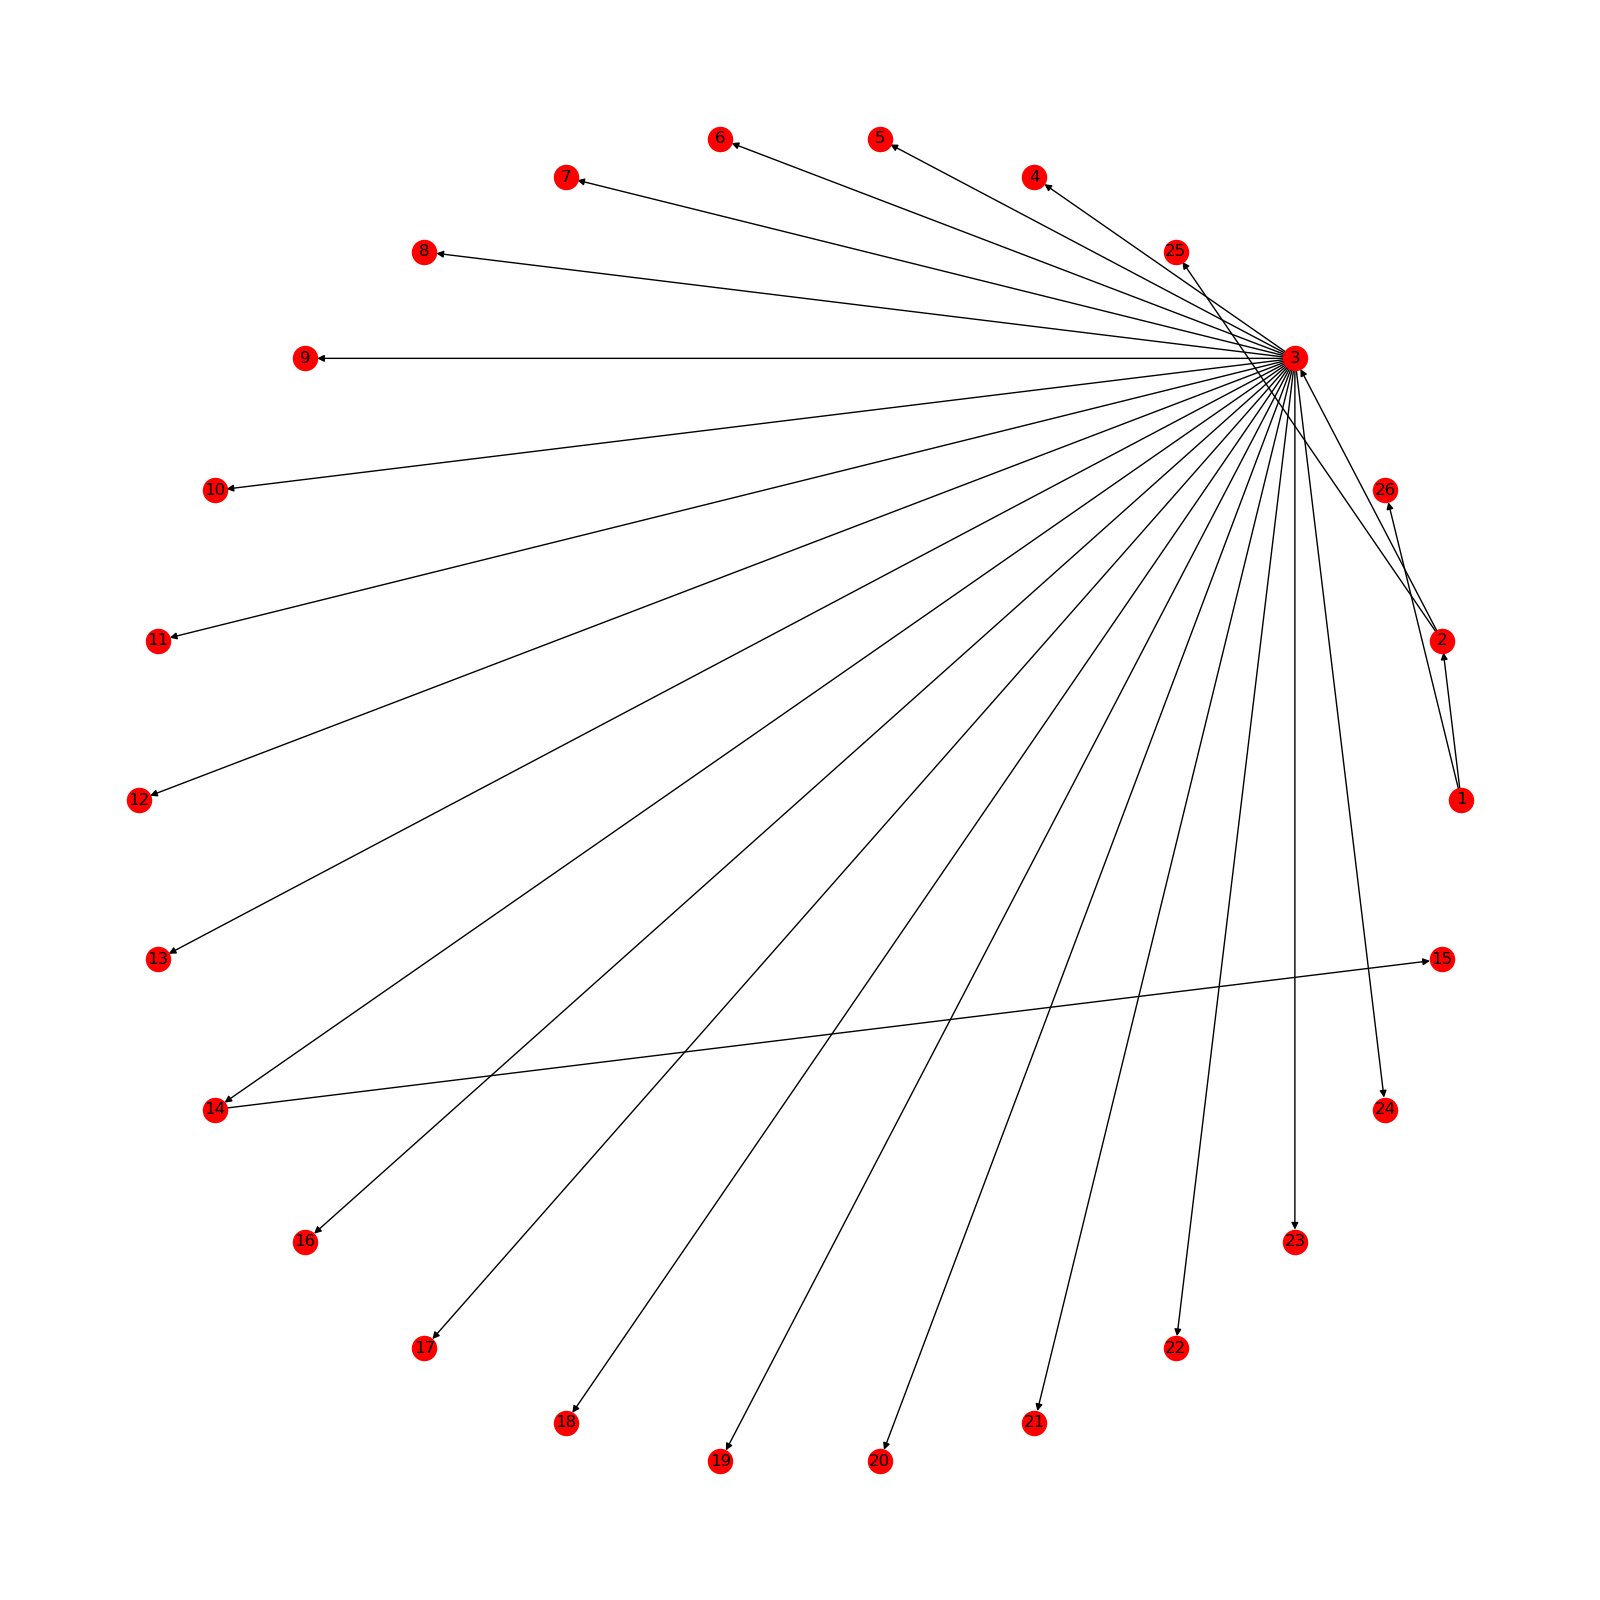
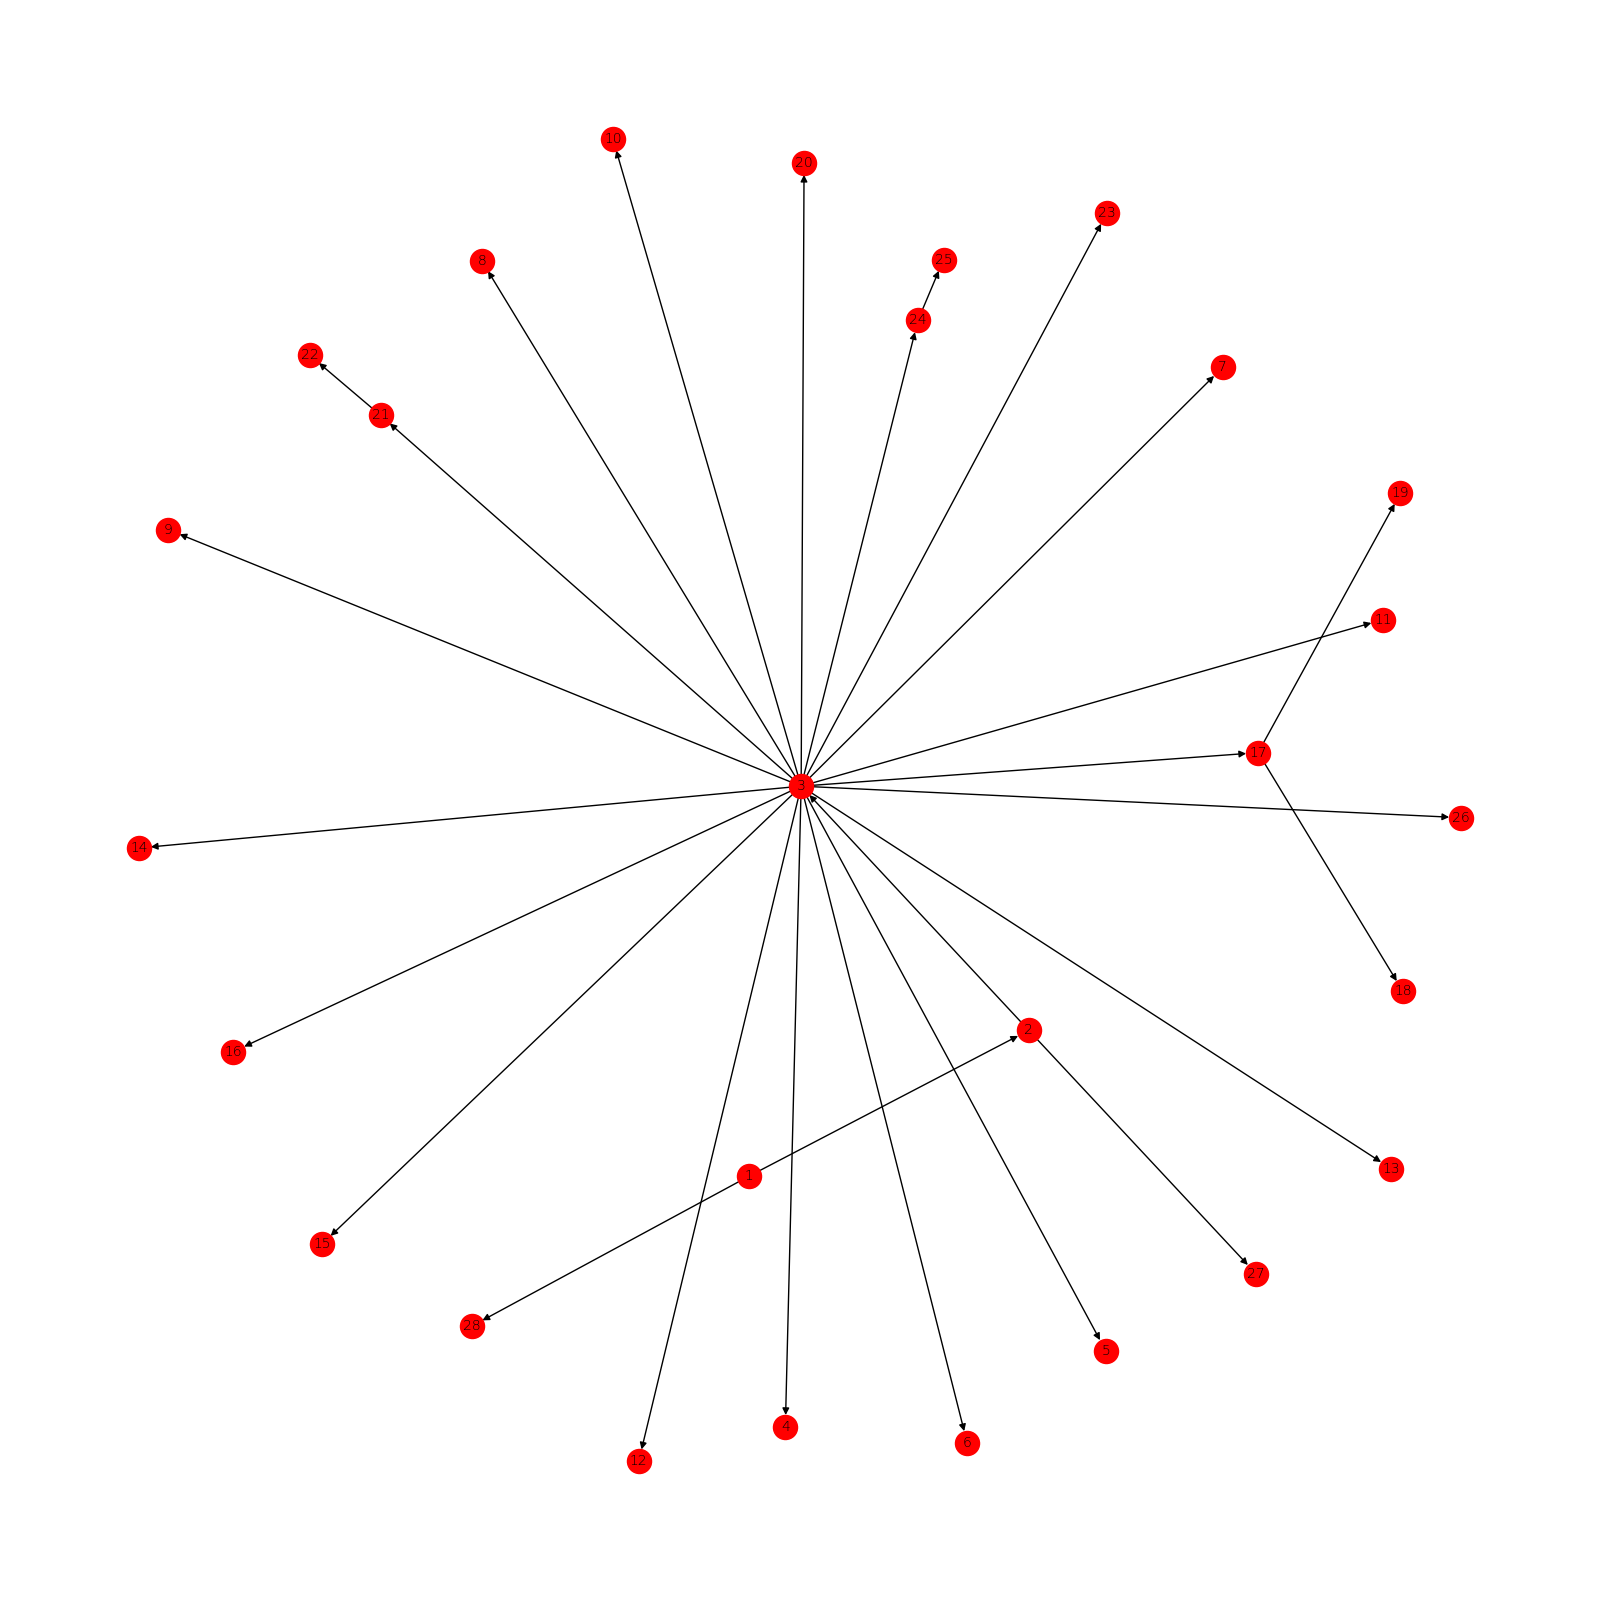
Changes to be committed: 	modified:   lib/graph.py 	modified:   lib/html.py 	modified:   main.py 	modified:   server.py 	modified:   static/Plot1.png 	modified:   templates/template.html

diff --git a/templates/template.html b/templates/template.html
@@ -2,7 +2,7 @@
 <html lang="en">
 <head>
     <meta charset="UTF-8">
-    <title>HTML</title>
+    <title>WebScraping - ResultView</title>
     <style>
         {{ html.css }}
     </style>
@@ -30,6 +30,9 @@
             xhttp.onreadystatechange = function() {
                 if (this.readyState == 4 && this.status == 200) {
                     document.getElementById("result").innerHTML = xhttp.responseText;
+                }
+                if (this.getResponseHeader('R-Processing') != 'Completed') {
+                   setTimeout(print_res(), 3000);
                 }
             };
             xhttp.open("GET", "/result", true);

diff --git a/lib/html.py b/lib/html.py
@@ -1,4 +1,18 @@
 css = '''
+        ol {
+            overflow:hidden;
+            overflow-y:scroll;
+            overflow-x:scroll;
+            max-width: 35%;
+            height: 700px;
+            float:right;
+            color: #FFFFFF;
+            font-weight: light;
+            background-color: #0000AA;
+            margin: 1px;
+            padding-top: 15px;
+        }
+
         .pyRes {
             color: #FFFFFF;
             font-weight: bold;
@@ -12,7 +26,10 @@ css = '''
             margin: auto;
         }
         .imgdiv {
-            text-align: center;
+            float:left
+        }
+        .imgdiv img {
+            width: 765px;
         }
 '''
 
@@ -24,6 +41,14 @@ def parse_string(string):
 def img_tag(img_name, img_path):
     tag = '<img src="' + img_path + '" alt="' + img_name + '" />'
     return tag
+
+def ordered_list(o_list):
+    list_tag = '<ol>\n'
+    for elm in o_list:
+        list_tag += '\t<li>' + elm + '</li>\n'
+
+    list_tag += '</ol>'
+    return list_tag
 
 
 class Plot_Handler:

diff --git a/main.py b/main.py
@@ -30,7 +30,7 @@ if __name__ == '__main__':
     if not args.serve:
         progression.monitor(crawler, crawler.crawl, 'pretty')
         crawler.graph(figuresize).show()
-        pprint(crawler.spun)
+        pprint(crawler.url_list)
 
     else:
 
@@ -44,6 +44,9 @@ if __name__ == '__main__':
                 progression.monitor(crawler, crawler.crawl, 'progress')
                 graph_div = plots.new_plot(crawler.graph(figuresize))
                 server.html_add = graph_div
+                ordered_urls = html.ordered_list(crawler.url_list)
+                server.html_add += ordered_urls
+                server.status = 'Completed'
 
         class Thread_2(threading.Thread):
             def __init__(self, name):
@@ -59,6 +62,8 @@ if __name__ == '__main__':
 
         thread1.start()
         thread2.start()
+
+        webbrowser.open('http://127.0.0.1:5000')
 
         thread1.join()
         thread2.join()

diff --git a/server.py b/server.py
@@ -1,4 +1,4 @@
-from flask import Flask, render_template
+from flask import Flask, render_template, make_response
 from lib import html
 
 class Server:
@@ -7,6 +7,7 @@ class Server:
         self.html_add = ""
         self.app = Flask(__name__)
         self.html = html
+        self.status = 'In-progress'
 
         @self.app.route("/")
         def index():
@@ -14,7 +15,9 @@ class Server:
 
         @self.app.route("/result")
         def result():
-            return self.html_add
+            resp = make_response(self.html_add, 200)
+            resp.headers.extend({'R-Processing':self.status})
+            return resp
 
         @self.app.route("/status")
         def status():

diff --git a/lib/graph.py b/lib/graph.py
@@ -33,6 +33,8 @@ def make_graph(dict_nest, figuresize):
                 q.append((new_value, new_dictionary))
 
     plt.figure(1, figsize=(figuresize))
-    nx.draw_circular(G, with_labels=True)
+    nx.draw(G, with_labels=True, font_size = 10, font_weight = 'light')
+
+    url_indexes = list(sorted(url_indexes, key=url_indexes.__getitem__))
 
     return plt, url_indexes, url_index_count
